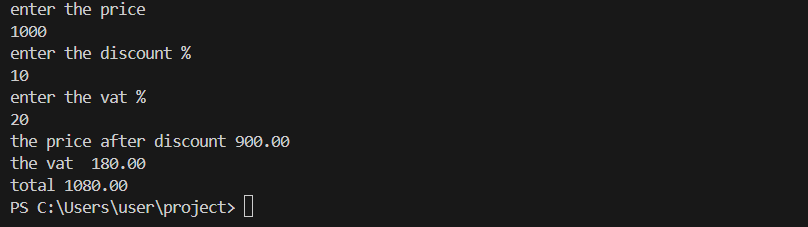
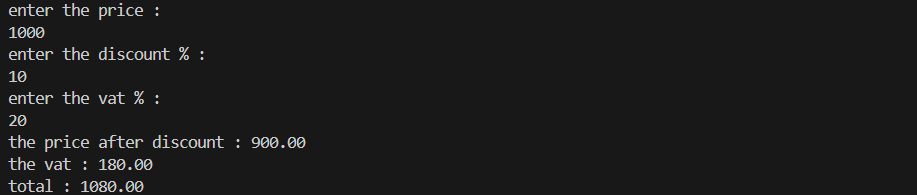
all

Changed region(s): [[0.0, 0.0, 0.2475, 0.5538], [0.0, 0.6769, 0.3403, 0.9846], [0.0, 0.5846, 0.3713, 0.6769]]

diff --git a/scr/lab01/03_discount_vat.py b/scr/lab01/03_discount_vat.py
@@ -1,12 +1,12 @@
-print("enter the price")
+print("enter the price :")
 price = float(input())
-print("enter the discount %")
+print("enter the discount % :")
 discount = float(input())
-print("enter the vat % ")
+print("enter the vat % :")
 vat = float(input())
 base = price * (1-discount/100)
 vat_amount  = base * (vat/100)
 total = base + vat_amount
-print("the price after discount",f"{base:.2f}")
-print("the vat ", f"{vat_amount:.2f}")
-print("total", f"{total:.2f}")
+print("the price after discount :",f"{base:.2f}")
+print("the vat :", f"{vat_amount:.2f}")
+print("total :", f"{total:.2f}")

diff --git a/README.md b/README.md
@@ -34,11 +34,11 @@ print(average)
 ### ex03
 
 ```python
-print("enter the price")
+print("enter the price :")
 price = float(input())
-print("enter the discount %")
+print("enter the discount % :")
 discount = float(input())
-print("enter the vat % ")
+print("enter the vat % :")
 vat = float(input())
 base = price * (1-discount/100)
 vat_amount  = base * (vat/100)
@@ -48,7 +48,7 @@ print("the vat ", f"{vat_amount:.2f}")
 print("total", f"{total:.2f}")
 ```
 
-![alt text](image-3.png)
+![alt text](image.png)
 
 
 
